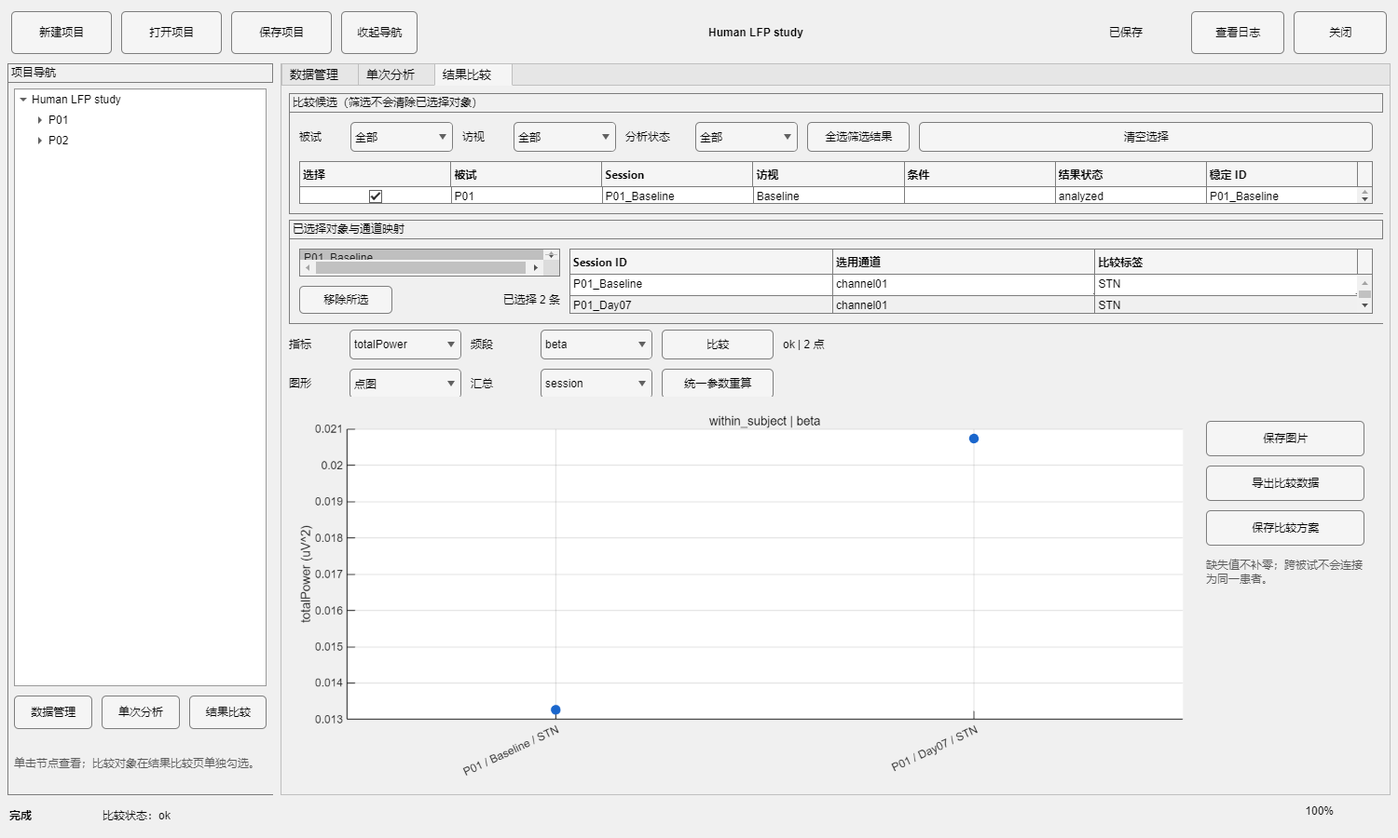
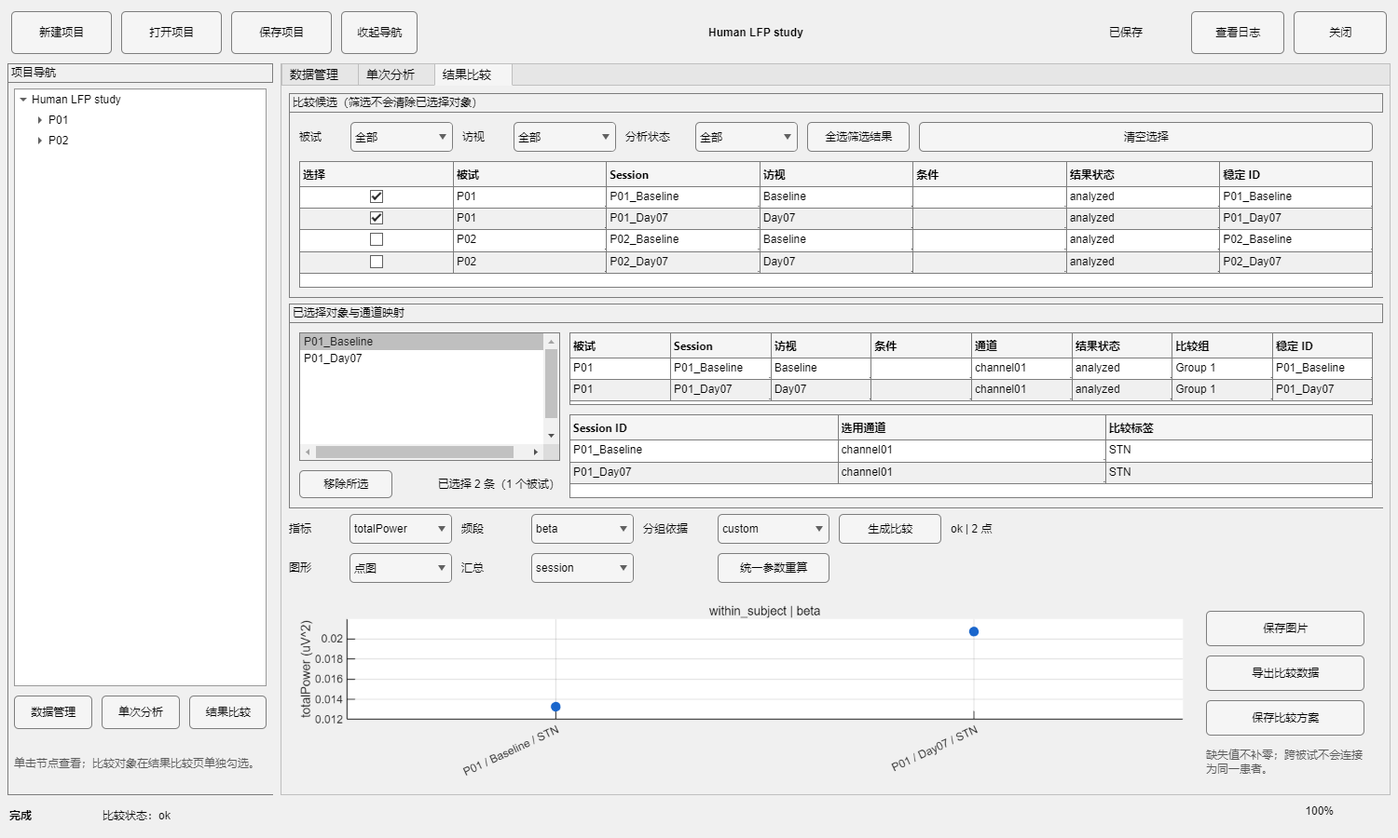
feat: expand project GUI and documentation

diff --git a/src/LfpProjectApp.m b/src/LfpProjectApp.m
@@ -12,6 +12,7 @@ classdef LfpProjectApp < handle
         CurrentData = struct()
         CurrentComparison = struct()
         CompareSelectedSessionIds = strings(0,1)
+        CompareGroupLabels = strings(0,1)
         Controls = struct()
         Dirty = false
         Busy = false
@@ -60,6 +61,13 @@ classdef LfpProjectApp < handle
             if nargin<4, description=""; end
             app.Project=lfp_create_project(string(root),string(name),Description=string(description));
             app.Dirty=false; app.resetSelection(); app.refreshProject(); app.showWorkspace("data");
+            app.setStatus("就绪","项目已创建；下一步请添加被试。",0);
+        end
+
+        function createProjectInParent(app,parent,name,description)
+            if nargin<4, description=""; end
+            project=lfp_create_project_in_parent(string(parent),string(name),Description=string(description));
+            app.Project=project; app.Dirty=false; app.resetSelection(); app.refreshProject(); app.showWorkspace("data");
             app.setStatus("就绪","项目已创建；下一步请添加被试。",0);
         end
 
@@ -185,11 +193,11 @@ classdef LfpProjectApp < handle
             hg=uigridlayout(holder,[1 1]);hg.Padding=[0 0 0 0];
             app.Controls.Welcome=uipanel(hg,'BorderType','none');
             app.Controls.Welcome.Layout.Row=1;app.Controls.Welcome.Layout.Column=1;
-            wg=uigridlayout(app.Controls.Welcome,[5 3]);wg.RowHeight={'1x',60,44,44,'1x'};wg.ColumnWidth={'1x',360,'1x'};
-            t=uilabel(wg,'Text','SceneRay LFP 项目分析','FontSize',24,'FontWeight','bold','HorizontalAlignment','center');t.Layout.Row=2;t.Layout.Column=2;
-            n=uilabel(wg,'Text','从空白项目开始，或继续已有项目。无需预先准备工作区变量。','HorizontalAlignment','center','WordWrap','on');n.Layout.Row=3;n.Layout.Column=2;
-            a=uigridlayout(wg,[1 2]);a.Layout.Row=4;a.Layout.Column=2;a.ColumnWidth={'1x','1x'};
-            uibutton(a,'Text','新建项目','ButtonPushedFcn',@(~,~)app.newProjectDialog());uibutton(a,'Text','打开项目','ButtonPushedFcn',@(~,~)app.openProjectDialog());
+            wg=uigridlayout(app.Controls.Welcome,[5 3]);wg.RowHeight={'1x',120,44,44,'1x'};wg.ColumnWidth={'1x',420,'1x'};
+            logo=uipanel(wg,'Title','LOGO','BorderType','line','ForegroundColor',[.75 .75 .75]);logo.Layout.Row=2;logo.Layout.Column=2;
+            lg=uigridlayout(logo,[1 1]);lg.Padding=[12 12 12 12];uilabel(lg,'Text','SceneRay LFP 项目分析','FontSize',22,'FontWeight','bold','HorizontalAlignment','center','FontColor',[.45 .45 .45]);
+            n=uilabel(wg,'Text','请使用顶部“新建项目”或“打开项目”。启动时不会自动导入数据。','HorizontalAlignment','center','WordWrap','on');n.Layout.Row=3;n.Layout.Column=2;
+            hint=uilabel(wg,'Text','项目将按 Subject → Session → Channel 组织，并保留原始数据。','HorizontalAlignment','center','WordWrap','on','FontColor',[.45 .45 .45]);hint.Layout.Row=4;hint.Layout.Column=2;
             app.Controls.WorkspaceTabs=uitabgroup(hg,'Visible','off','SelectionChangedFcn',@(~,~)app.onWorkspaceTabChanged());
             app.Controls.WorkspaceTabs.Layout.Row=1;app.Controls.WorkspaceTabs.Layout.Column=1;
             app.Controls.DataTab=uitab(app.Controls.WorkspaceTabs,'Title','数据管理');app.Controls.AnalysisTab=uitab(app.Controls.WorkspaceTabs,'Title','单次分析');app.Controls.CompareTab=uitab(app.Controls.WorkspaceTabs,'Title','结果比较');
@@ -244,8 +252,9 @@ classdef LfpProjectApp < handle
             uilabel(p,'Text','NW');app.Controls.PsdNW=uieditfield(p,'numeric','Value',3.5);uilabel(p,'Text','K');app.Controls.PsdK=uieditfield(p,'numeric','Value',6);uilabel(p,'Text','重叠');app.Controls.PsdOverlap=uieditfield(p,'numeric','Value',.5);
             st=uitab(tabs,'Title','specparam');s=uigridlayout(st,[2 8]);s.RowHeight={34,34};s.ColumnWidth={70,80,70,80,70,80,80,90};
             uilabel(s,'Text','模型');app.Controls.SpecMode=uidropdown(s,'Items',{'fixed','knee'},'Value','fixed');uilabel(s,'Text','下限 Hz');app.Controls.SpecLow=uieditfield(s,'numeric','Value',1);uilabel(s,'Text','上限 Hz');app.Controls.SpecHigh=uieditfield(s,'numeric','Value',35);uilabel(s,'Text','最大峰数');app.Controls.SpecPeaks=uieditfield(s,'numeric','Value',6);
-            bt=uitab(tabs,'Title','频带功率');b=uigridlayout(bt,[2 4]);b.RowHeight={34,34};b.ColumnWidth={90,180,90,'1x'};
-            uilabel(b,'Text','显示指标');app.Controls.BandMetric=uidropdown(b,'Items',{'totalPower','relativePower','logTotalPower','aperiodicPower','periodicPower'},'Value','totalPower','ValueChangedFcn',@(~,~)app.refreshAnalysisView());uilabel(b,'Text','频段范围');uilabel(b,'Text','来自项目配置；超出 PSD 范围会标记为不可计算。');
+            bt=uitab(tabs,'Title','频带功率');b=uigridlayout(bt,[2 1]);b.RowHeight={'1x',36};b.Padding=[4 4 4 4];
+            app.Controls.BandTable=uitable(b,'Data',band_table_data(lfpDefaultConfig().bands),'ColumnName',{'启用','频段名称','下限 (Hz)','上限 (Hz)'},'ColumnEditable',[true true true true],'RowName',[],'CellEditCallback',@(~,~)app.markDirty());
+            bb=uigridlayout(b,[1 4]);bb.ColumnWidth={110,130,'1x',220};bb.Padding=[0 0 0 0];app.Controls.ResetBands=uibutton(bb,'Text','恢复默认频段','ButtonPushedFcn',@(~,~)app.resetBandTable());app.Controls.SaveBandTemplate=uibutton(bb,'Text','保存为项目模板','ButtonPushedFcn',@(~,~)app.saveBandTemplate());uilabel(bb,'Text','显示指标');app.Controls.BandMetric=uidropdown(bb,'Items',{'totalPower','relativePower','logTotalPower','aperiodicPower','periodicPower'},'Value','totalPower','ValueChangedFcn',@(~,~)app.refreshAnalysisView());
         end
 
         function buildAnalysisResults(app,parent)
@@ -257,14 +266,14 @@ classdef LfpProjectApp < handle
         end
 
         function buildComparePage(app,parent)
-            g=uigridlayout(parent,[4 1]);app.Controls.CompareGrid=g;g.RowHeight={130,112,72,'1x'};g.Padding=[8 8 8 8];g.RowSpacing=6;
+            g=uigridlayout(parent,[4 1]);app.Controls.CompareGrid=g;g.RowHeight={220,220,78,'1x'};g.Padding=[8 8 8 8];g.RowSpacing=6;
             cp=uipanel(g,'Title','比较候选（筛选不会清除已选择对象）');c=uigridlayout(cp,[2 8]);c.RowHeight={32,'1x'};c.ColumnWidth={45,110,45,110,65,110,110,'1x'};
             uilabel(c,'Text','被试');app.Controls.FilterSubject=uidropdown(c,'Items',{'全部'},'ValueChangedFcn',@(~,~)app.refreshComparisonCandidates());uilabel(c,'Text','访视');app.Controls.FilterVisit=uidropdown(c,'Items',{'全部'},'ValueChangedFcn',@(~,~)app.refreshComparisonCandidates());uilabel(c,'Text','分析状态');app.Controls.FilterStatus=uidropdown(c,'Items',{'全部'},'ValueChangedFcn',@(~,~)app.refreshComparisonCandidates());app.Controls.SelectFiltered=uibutton(c,'Text','全选筛选结果','ButtonPushedFcn',@(~,~)app.selectFiltered());app.Controls.ClearComparison=uibutton(c,'Text','清空选择','ButtonPushedFcn',@(~,~)app.clearComparisonSelection());
             app.Controls.CandidateTable=uitable(c,'Data',cell(0,7),'ColumnName',{'选择','被试','Session','访视','条件','结果状态','稳定 ID'},'ColumnEditable',[true false false false false false false],'RowName',[],'CellEditCallback',@(~,e)app.onCandidateEdited(e));app.Controls.CandidateTable.Layout.Row=2;app.Controls.CandidateTable.Layout.Column=[1 8];
-            sp=uipanel(g,'Title','已选择对象与通道映射');s=uigridlayout(sp,[1 2]);s.ColumnWidth={280,'1x'};left=uigridlayout(s,[2 1]);left.RowHeight={'1x',30};left.Padding=[0 0 0 0];app.Controls.SelectedSessions=uilistbox(left,'Items',{'(未选择)'},'Value',{'(未选择)'},'Multiselect','on');lb=uigridlayout(left,[1 2]);lb.ColumnWidth={100,'1x'};lb.Padding=[0 0 0 0];app.Controls.RemoveSelectedComparison=uibutton(lb,'Text','移除所选','ButtonPushedFcn',@(~,~)app.removeSelectedComparison());app.Controls.SelectedCount=uilabel(lb,'Text','已选择 0 条','HorizontalAlignment','right');app.Controls.MappingTable=uitable(s,'Data',cell(0,3),'ColumnName',{'Session ID','选用通道','比较标签'},'ColumnEditable',[false true true],'RowName',[]);
-            x=uigridlayout(g,[2 6]);x.RowHeight={32,32};x.ColumnWidth={55,120,65,120,120,'1x'};x.Padding=[0 0 0 0];
-            uilabel(x,'Text','指标');app.Controls.CompareMetric=uidropdown(x,'Items',{'totalPower','relativePower','logTotalPower','aperiodicPower','periodicPower'},'Value','totalPower');uilabel(x,'Text','频段');app.Controls.CompareBand=uidropdown(x,'Items',{'delta','theta','alpha','beta','lowGamma','highGamma'},'Value','beta');app.Controls.CompareButton=uibutton(x,'Text','比较','ButtonPushedFcn',@(~,~)app.onCompare(false));app.Controls.CompareStatus=uilabel(x,'Text','未比较');
-            uilabel(x,'Text','图形');app.Controls.ComparePlot=uidropdown(x,'Items',{'点图','柱状图'},'Value','点图','ValueChangedFcn',@(~,~)app.renderComparison());uilabel(x,'Text','汇总');app.Controls.CompareAggregation=uidropdown(x,'Items',{'session'},'Value','session');app.Controls.UnifyCompare=uibutton(x,'Text','统一参数重算','ButtonPushedFcn',@(~,~)app.onCompare(true));
+            sp=uipanel(g,'Title','已选择对象与通道映射');s=uigridlayout(sp,[1 2]);s.ColumnWidth={280,'1x'};left=uigridlayout(s,[2 1]);left.RowHeight={'1x',30};left.Padding=[0 0 0 0];app.Controls.SelectedSessions=uilistbox(left,'Items',{'(未选择)'},'Value',{'(未选择)'},'Multiselect','on');lb=uigridlayout(left,[1 2]);lb.ColumnWidth={100,'1x'};lb.Padding=[0 0 0 0];app.Controls.RemoveSelectedComparison=uibutton(lb,'Text','移除所选','ButtonPushedFcn',@(~,~)app.removeSelectedComparison());app.Controls.SelectedCount=uilabel(lb,'Text','已选择 0 条','HorizontalAlignment','right');right=uigridlayout(s,[2 1]);right.RowHeight={'1x',90};right.Padding=[0 0 0 0];app.Controls.SelectedObjectTable=uitable(right,'Data',cell(0,8),'ColumnName',{'被试','Session','访视','条件','通道','结果状态','比较组','稳定 ID'},'ColumnEditable',[false false false false false false true false],'RowName',[],'CellEditCallback',@(~,e)app.onSelectedObjectEdited(e));app.Controls.MappingTable=uitable(right,'Data',cell(0,3),'ColumnName',{'Session ID','选用通道','比较标签'},'ColumnEditable',[false true true],'RowName',[]);
+            x=uigridlayout(g,[2 8]);x.RowHeight={32,32};x.ColumnWidth={55,110,65,110,70,120,110,'1x'};x.Padding=[0 0 0 0];
+            uilabel(x,'Text','指标');app.Controls.CompareMetric=uidropdown(x,'Items',{'totalPower','relativePower','logTotalPower','aperiodicPower','periodicPower'},'Value','totalPower');uilabel(x,'Text','频段');app.Controls.CompareBand=uidropdown(x,'Items',{'delta','theta','alpha','beta','lowGamma','highGamma'},'Value','beta');uilabel(x,'Text','分组依据');app.Controls.CompareGroupingBasis=uidropdown(x,'Items',{'custom','subject_group','visit'},'Value','custom');app.Controls.CompareButton=uibutton(x,'Text','生成比较','ButtonPushedFcn',@(~,~)app.onCompare(false));app.Controls.CompareStatus=uilabel(x,'Text','未比较');
+            uilabel(x,'Text','图形');app.Controls.ComparePlot=uidropdown(x,'Items',{'点图','柱状图','分组 PSD','分组频带柱图'},'Value','点图','ValueChangedFcn',@(~,~)app.renderComparison());uilabel(x,'Text','汇总');app.Controls.CompareAggregation=uidropdown(x,'Items',{'session','subject'},'Value','session');uilabel(x,'Text','');app.Controls.UnifyCompare=uibutton(x,'Text','统一参数重算','ButtonPushedFcn',@(~,~)app.onCompare(true));
             res=uigridlayout(g,[1 2]);res.ColumnWidth={'1x',190};app.Controls.CompareAxes=uiaxes(res);tools=uigridlayout(res,[6 1]);tools.RowHeight={38,38,38,38,'1x',60};app.Controls.CompareSaveImage=uibutton(tools,'Text','保存图片','ButtonPushedFcn',@(~,~)app.saveComparisonImage());app.Controls.CompareExportData=uibutton(tools,'Text','导出比较数据','ButtonPushedFcn',@(~,~)app.exportComparisonData());app.Controls.CompareSavePlan=uibutton(tools,'Text','保存比较方案','ButtonPushedFcn',@(~,~)app.saveComparisonPlan());app.Controls.CompareDetails=uilabel(tools,'Text','缺失值不补零；跨被试不会连接为同一患者。','WordWrap','on','FontColor',[.35 .35 .35]);
         end
 
@@ -273,9 +282,33 @@ classdef LfpProjectApp < handle
         end
 
         function newProjectDialog(app)
-            a=inputdlg({'项目名称','可选描述'},'新建项目',[1 45;3 45],{'Human LFP project',''});if isempty(a),return;end
-            root=uigetdir('','选择项目保存位置');if isequal(root,0),return;end
-            try,app.createProjectAt(root,string(a{1}),string(a{2}));catch e,app.showError(e,'新建项目失败');end
+            dg=uifigure('Name','新建项目','WindowStyle','modal','Position',[360 300 620 300]);
+            g=uigridlayout(dg,[5 3]);g.RowHeight={34,34,34,70,42};g.ColumnWidth={100,'1x',100};g.Padding=[16 16 16 16];
+            uilabel(g,'Text','项目名称');name=uieditfield(g,'text','Value','Human LFP project');
+            uilabel(g,'Text','父目录');parent=uieditfield(g,'text','Value',char(pwd));browse=uibutton(g,'Text','浏览…','ButtonPushedFcn',@browseParent);
+            uilabel(g,'Text','保存路径预览');preview=uilabel(g,'Text','','Interpreter','none','WordWrap','on');preview.Layout.Column=[2 3];
+            uilabel(g,'Text','说明');description=uieditfield(g,'text','Value','');description.Layout.Column=[2 3];
+            buttons=uigridlayout(g,[1 2]);buttons.Layout.Row=5;buttons.Layout.Column=[2 3];buttons.ColumnWidth={'1x','1x'};uibutton(buttons,'Text','取消','ButtonPushedFcn',@cancel);uibutton(buttons,'Text','创建','ButtonPushedFcn',@accept);
+            name.ValueChangedFcn=@updatePreview;parent.ValueChangedFcn=@updatePreview;dg.CloseRequestFcn=@cancel;updatePreview();uiwait(dg);
+            if isgraphics(dg),result=dg.UserData;delete(dg);else,result=[];end
+            if ~isempty(result)
+                try,app.createProjectInParent(result.parent,result.name,result.description);catch e,app.showError(e,'新建项目失败');end
+            end
+            function updatePreview(~,~)
+                if strlength(strtrim(string(parent.Value)))==0||strlength(strtrim(string(name.Value)))==0,preview.Text='请输入父目录和项目名称';else,preview.Text=char(fullfile(string(parent.Value),string(name.Value)));end
+            end
+            function browseParent(~,~)
+                selected=uigetdir(char(parent.Value),'选择项目父目录');if ~isequal(selected,0),parent.Value=char(selected);updatePreview();end
+            end
+            function cancel(~,~),if isgraphics(dg),dg.UserData=[];uiresume(dg);end,end
+            function accept(~,~)
+                try
+                    parentRoot=string(parent.Value);projectName=string(name.Value);lfp_validate_folder_name(projectName,"项目名称");
+                    if ~isfolder(parentRoot),error('LFP:InvalidProjectParent','项目父目录不存在。');end
+                    dg.UserData=struct('parent',parentRoot,'name',projectName,'description',string(description.Value));uiresume(dg);
+                catch e,uialert(dg,string(e.message),'项目设置');
+                end
+            end
         end
 
         function openProjectDialog(app)
@@ -391,7 +424,7 @@ classdef LfpProjectApp < handle
                 subject=app.Project.subjects(i);sn=uitreenode(root,'Text',char(subject.display_name),'NodeData',struct('kind','subject','id',subject.subject_id));
                 for j=1:numel(subject.sessions),session=subject.sessions(j);label=session.visit_label;if strlength(label)==0,label=session.session_id;end;uitreenode(sn,'Text',char(label+"  ["+session.status+"]"),'NodeData',struct('kind','session','id',session.session_id));end
             end
-            expand(root);app.updateProjectHeader();app.refreshComparisonFilters();app.refreshComparisonCandidates();
+            expand(root);app.updateProjectHeader();app.refreshComparisonFilters();app.refreshComparisonBands();app.refreshComparisonCandidates();
         end
 
         function showProjectDetails(app)
@@ -446,13 +479,41 @@ classdef LfpProjectApp < handle
             cfg=app.Project.defaultConfig;cfg.artifact.amplitudeZ=app.Controls.ArtifactZ.Value;cfg.artifact.derivativeZ=app.Controls.JumpZ.Value;cfg.artifact.paddingSeconds=app.Controls.Padding.Value;
             cfg.psd.method=string(app.Controls.PsdMethod.Value);cfg.psd.windowLengthSec=app.Controls.PsdWindow.Value;cfg.psd.frequencyRange=[app.Controls.PsdLow.Value app.Controls.PsdHigh.Value];cfg.psd.overlapFraction=app.Controls.PsdOverlap.Value;cfg.psd.multitaper.timeBandwidthProduct=app.Controls.PsdNW.Value;
             cfg.psd.multitaper.taperCount=round(app.Controls.PsdK.Value);cfg.fooof.aperiodicMode=string(app.Controls.SpecMode.Value);cfg.fooof.frequencyRange=[app.Controls.SpecLow.Value app.Controls.SpecHigh.Value];cfg.fooof.maxNumberPeaks=round(app.Controls.SpecPeaks.Value);
+            cfg.bands=app.readBandsFromTable();
             if ~isempty(fieldnames(app.CurrentData))&&cfg.psd.frequencyRange(2)>app.CurrentData.fs/2,error('LFP:FrequencyAboveNyquist','PSD 上限 %.3g Hz 超过 Nyquist %.3g Hz。',cfg.psd.frequencyRange(2),app.CurrentData.fs/2);end
+        end
+
+        function bands=readBandsFromTable(app)
+            raw=app.Controls.BandTable.Data;if isempty(raw),error('LFP:InvalidBands','至少保留一个频段。');end
+            bands=struct('name',{},'rangeHz',{});names=strings(0,1);
+            for i=1:size(raw,1)
+                enabled=logical(raw{i,1});name=strtrim(string(raw{i,2}));low=double(raw{i,3});high=double(raw{i,4});
+                if ~enabled,continue;end
+                if strlength(name)==0||any(names==name),error('LFP:InvalidBands','频段名称不能为空且不能重复。');end
+                if ~isfinite(low)||~isfinite(high)||low<0||high<=low,error('LFP:InvalidBands','频段 %s 的边界必须满足 0≤下限<上限。',name);end
+                if ~isempty(fieldnames(app.CurrentData))&&high>double(app.CurrentData.fs)/2,error('LFP:FrequencyAboveNyquist','频段 %s 上限 %.3g Hz 超过 Nyquist。',name,high);end
+                names(end+1,1)=name;bands(end+1)=struct('name',name,'rangeHz',[low high]); %#ok<AGROW>
+            end
+            if isempty(bands),error('LFP:InvalidBands','至少启用一个频段。');end
         end
 
         function applyConfigToControls(app)
             if app.noProject(),return;end;c=app.Project.defaultConfig;app.Controls.ArtifactZ.Value=c.artifact.amplitudeZ;app.Controls.JumpZ.Value=c.artifact.derivativeZ;app.Controls.Padding.Value=c.artifact.paddingSeconds;
             app.Controls.PsdMethod.Value=char(c.psd.method);app.Controls.PsdWindow.Value=c.psd.windowLengthSec;app.Controls.PsdLow.Value=c.psd.frequencyRange(1);app.Controls.PsdHigh.Value=c.psd.frequencyRange(2);app.Controls.PsdOverlap.Value=c.psd.overlapFraction;app.Controls.PsdNW.Value=c.psd.multitaper.timeBandwidthProduct;app.Controls.PsdK.Value=c.psd.multitaper.taperCount;
             app.Controls.SpecMode.Value=char(c.fooof.aperiodicMode);app.Controls.SpecLow.Value=c.fooof.frequencyRange(1);app.Controls.SpecHigh.Value=c.fooof.frequencyRange(2);app.Controls.SpecPeaks.Value=c.fooof.maxNumberPeaks;
+            if isfield(c,'bands'),app.Controls.BandTable.Data=band_table_data(c.bands);end
+        end
+
+        function resetBandTable(app)
+            d=lfpDefaultConfig();app.Controls.BandTable.Data=band_table_data(d.bands);if ~app.noProject(),app.refreshComparisonBands();app.markDirty();end
+        end
+
+        function saveBandTemplate(app)
+            if app.noProject(),app.warn('请先创建或打开项目。');return;end
+            try
+                c=app.Project.defaultConfig;c.bands=app.readBandsFromTable();app.Project.defaultConfig=c;app.refreshComparisonBands();app.markDirty();app.saveProject();
+            catch e,app.showError(e,'保存频段模板失败');
+            end
         end
 
         function onRun(app),try,app.runSelectedAnalysis();catch e,app.showError(e,'分析失败');end,end
@@ -468,6 +529,13 @@ classdef LfpProjectApp < handle
             if app.noProject(),return;end
             subjects=string({app.Project.subjects.subject_id});visits=strings(0,1);statuses=strings(0,1);for i=1:numel(app.Project.subjects),visits=[visits;string({app.Project.subjects(i).sessions.visit_label})'];statuses=[statuses;string({app.Project.subjects(i).sessions.status})'];end %#ok<LFPS>
             app.setDropdownItems(app.Controls.FilterSubject,["全部";unique(subjects(:),'stable')]);app.setDropdownItems(app.Controls.FilterVisit,["全部";unique(visits(strlength(visits)>0),'stable')]);app.setDropdownItems(app.Controls.FilterStatus,["全部";unique(statuses(strlength(statuses)>0),'stable')]);
+        end
+
+        function refreshComparisonBands(app)
+            if ~isfield(app.Controls,'CompareBand'),return;end
+            names=project_band_names(app.Project);
+            if isempty(names),names="beta";end
+            app.setDropdownItems(app.Controls.CompareBand,names);
         end
 
         function refreshComparisonCandidates(app)
@@ -486,30 +554,66 @@ classdef LfpProjectApp < handle
             row=event.Indices(1);data=app.Controls.CandidateTable.Data;id=string(data{row,7});if logical(data{row,1}),app.CompareSelectedSessionIds=unique([app.CompareSelectedSessionIds;id],'stable');else,app.CompareSelectedSessionIds(app.CompareSelectedSessionIds==id)=[];end;app.refreshSelectedSessions();
         end
         function selectFiltered(app),data=app.Controls.CandidateTable.Data;if isempty(data),return;end;app.CompareSelectedSessionIds=unique([app.CompareSelectedSessionIds;string(data(:,7))],'stable');app.refreshComparisonCandidates();end
-        function clearComparisonSelection(app),app.CompareSelectedSessionIds=strings(0,1);app.refreshComparisonCandidates();end
-        function removeSelectedComparison(app),selected=string(app.Controls.SelectedSessions.Value);selected=selected(selected~="(未选择)");app.CompareSelectedSessionIds(ismember(app.CompareSelectedSessionIds,selected))=[];app.refreshComparisonCandidates();end
+        function clearComparisonSelection(app),app.CompareSelectedSessionIds=strings(0,1);app.CompareGroupLabels=strings(0,1);app.refreshComparisonCandidates();end
+        function removeSelectedComparison(app),selected=string(app.Controls.SelectedSessions.Value);selected=selected(selected~="(未选择)");keep=~ismember(app.CompareSelectedSessionIds,selected);app.CompareSelectedSessionIds=app.CompareSelectedSessionIds(keep);app.CompareGroupLabels=app.CompareGroupLabels(keep);app.refreshComparisonCandidates();end
 
         function refreshSelectedSessions(app)
-            app.Controls.SelectedCount.Text=char("已选择 "+string(numel(app.CompareSelectedSessionIds))+" 条");if isempty(app.CompareSelectedSessionIds),app.Controls.SelectedSessions.Items={'(未选择)'};app.Controls.SelectedSessions.Value={'(未选择)'};app.Controls.MappingTable.Data=cell(0,3);return;end
-            app.Controls.SelectedSessions.Items=cellstr(app.CompareSelectedSessionIds);app.Controls.SelectedSessions.Value=char(app.CompareSelectedSessionIds(1));old=app.Controls.MappingTable.Data;rows=cell(numel(app.CompareSelectedSessionIds),3);
-            for i=1:numel(app.CompareSelectedSessionIds),id=app.CompareSelectedSessionIds(i);[session,~]=lfp_project_find_session(app.Project,id);channel="";if ~isempty(session)&&~isempty(session.channels),channel=string(session.channels(1).original_label);end
-                if ~isempty(old),match=find(string(old(:,1))==id,1);if ~isempty(match),channel=string(old{match,2});target=string(old{match,3});else,target=channel;end;else,target=channel;end;rows(i,:)={char(id),char(channel),char(target)};
+            ids=app.CompareSelectedSessionIds(:);app.Controls.SelectedCount.Text=char("已选择 "+string(numel(ids))+" 条（"+string(numel(unique(app.subject_ids_for_sessions(ids))))+" 个被试）");
+            if isempty(ids)
+                app.Controls.SelectedSessions.Items={'(未选择)'};app.Controls.SelectedSessions.Value={'(未选择)'};app.Controls.MappingTable.Data=cell(0,3);app.Controls.SelectedObjectTable.Data=cell(0,8);app.CompareGroupLabels=strings(0,1);return;
             end
-            app.Controls.MappingTable.Data=rows;
+            app.Controls.SelectedSessions.Items=cellstr(ids);app.Controls.SelectedSessions.Value=char(ids(1));old=app.Controls.MappingTable.Data;oldObjects=app.Controls.SelectedObjectTable.Data;mappingRows=cell(numel(ids),3);objectRows=cell(numel(ids),8);groups=strings(numel(ids),1);
+            for i=1:numel(ids)
+                id=ids(i);[session,subject]=lfp_project_find_session(app.Project,id);channel="";visit="";condition="";status="";subjectId="";group="Group 1";
+                if ~isempty(session)
+                    subjectId=string(subject.subject_id);visit=string(session.visit_label);condition=strtrim(string(session.medication_state)+" "+string(session.stimulation_state));status=string(session.status);
+                    if ~isempty(session.channels),channel=string(session.channels(1).original_label);end
+                    group=default_compare_group(app,session,subject);
+                end
+                if ~isempty(old),match=find(string(old(:,1))==id,1);if ~isempty(match),channel=string(old{match,2});target=string(old{match,3});else,target=channel;end;else,target=channel;end
+                if ~isempty(oldObjects),match=find(string(oldObjects(:,8))==id,1);if ~isempty(match)&&size(oldObjects,2)>=7,group=string(oldObjects{match,7});end;end
+                if strlength(group)==0,group="Group 1";end;groups(i)=group;mappingRows(i,:)={char(id),char(channel),char(target)};objectRows(i,:)={char(subjectId),char(id),char(visit),char(condition),char(channel),char(status),char(group),char(id)};
+            end
+            app.CompareGroupLabels=groups;app.Controls.MappingTable.Data=mappingRows;app.Controls.SelectedObjectTable.Data=objectRows;
+        end
+
+        function onSelectedObjectEdited(app,event)
+            if isempty(event.Indices),return;end;row=event.Indices(1);if size(app.Controls.SelectedObjectTable.Data,2)<8,return;end
+            id=string(app.Controls.SelectedObjectTable.Data{row,8});group=string(app.Controls.SelectedObjectTable.Data{row,7});idx=find(app.CompareSelectedSessionIds==id,1);if ~isempty(idx),app.CompareGroupLabels(idx)=group;end
+        end
+
+        function ids=subject_ids_for_sessions(app,ids)
+            ids=string(ids(:));out=strings(0,1);for k=1:numel(ids),[~,subject]=lfp_project_find_session(app.Project,ids(k));if ~isempty(subject),out(end+1,1)=string(subject.subject_id);end,end;ids=out;
+        end
+
+        function group=default_compare_group(app,session,subject)
+            basis="custom";if isfield(app.Controls,'CompareGroupingBasis'),basis=string(app.Controls.CompareGroupingBasis.Value);end
+            switch lower(basis),case "subject_group",group=string(subject.group);case "visit",group=string(session.visit_label);otherwise,group="Group 1";end
+            if strlength(group)==0,group="未分组";end
         end
 
         function spec=readComparisonSpec(app)
-            ids=app.CompareSelectedSessionIds(:);subjects=strings(numel(ids),1);mapping=repmat(struct('session_id',"",'channel_id',"",'channel_label',"",'target_label',""),numel(ids),1);rows=app.Controls.MappingTable.Data;
+            ids=app.CompareSelectedSessionIds(:);subjects=strings(numel(ids),1);mapping=repmat(struct('session_id',"",'channel_id',"",'channel_label',"",'target_label',"",'group_label',""),numel(ids),1);rows=app.Controls.MappingTable.Data;
             for i=1:numel(ids),[session,subject]=lfp_project_find_session(app.Project,ids(i));subjects(i)=subject.subject_id;chosen=string(rows{i,2});target=string(rows{i,3});labels=string({session.channels.original_label});display=string({session.channels.display_label});idx=find(labels==chosen|display==chosen,1);if isempty(idx),error('LFP:ChannelMappingMissing','Session %s 中不存在通道 %s。',ids(i),chosen);end
-                mapping(i)=struct('session_id',ids(i),'channel_id',string(session.channels(idx).channel_id),'channel_label',string(session.channels(idx).original_label),'target_label',target);
+                group="Group 1";if numel(app.CompareGroupLabels)>=i,group=string(app.CompareGroupLabels(i));end
+                mapping(i)=struct('session_id',ids(i),'channel_id',string(session.channels(idx).channel_id),'channel_label',string(session.channels(idx).original_label),'target_label',target,'group_label',group);
             end
             type="between_subjects";if numel(unique(subjects))==1,type="within_subject";end
-            spec=struct('type',type,'session_ids',ids,'subject_ids',unique(subjects),'bands',string(app.Controls.CompareBand.Value),'metric',string(app.Controls.CompareMetric.Value),'aggregation',string(app.Controls.CompareAggregation.Value),'channel_mapping',mapping,'plot_settings',struct('type',string(app.Controls.ComparePlot.Value)));
+            basis=string(app.Controls.CompareGroupingBasis.Value);groups=unique(string({mapping.group_label})','stable');defs=repmat(struct('group_label',"",'basis',basis,'session_ids',strings(0,1),'subject_ids',strings(0,1)),numel(groups),1);for k=1:numel(groups),defs(k).group_label=groups(k);defs(k).session_ids=ids(string({mapping.group_label})'==groups(k));defs(k).subject_ids=unique(subjects(string({mapping.group_label})'==groups(k)),'stable');end
+            spec=struct('type',type,'session_ids',ids,'subject_ids',unique(subjects),'bands',string(app.Controls.CompareBand.Value),'metric',string(app.Controls.CompareMetric.Value),'aggregation',string(app.Controls.CompareAggregation.Value),'channel_mapping',mapping,'grouping_basis',basis,'group_defs',defs,'plot_settings',struct('type',string(app.Controls.ComparePlot.Value)));
         end
 
         function onCompare(app,unify),try,app.compareSelected(unify);catch e,app.showError(e,'比较失败');end,end
         function renderComparison(app)
             ax=app.Controls.CompareAxes;cla(ax,'reset');if isempty(fieldnames(app.CurrentComparison)),text(ax,.5,.5,'请选择比较对象并运行比较','Units','normalized','HorizontalAlignment','center');axis(ax,'off');return;end
+            mode=string(app.Controls.ComparePlot.Value);
+            if mode=="分组 PSD"
+                if ~isfield(app.CurrentComparison,'psd_summary')||~isstruct(app.CurrentComparison.psd_summary)||isempty(app.CurrentComparison.psd_summary.psd),text(ax,.5,.5,'没有可用 PSD 比较结果','Units','normalized','HorizontalAlignment','center');axis(ax,'off');return;end
+                plotGroupedPsdComparison(app.CurrentComparison.psd_summary,Parent=ax,Visible="off");app.Controls.CompareStatus.Text=char(string(app.CurrentComparison.status)+" | 分组 PSD");return;
+            elseif mode=="分组频带柱图"
+                if ~isfield(app.CurrentComparison,'result_table')||isempty(app.CurrentComparison.result_table),text(ax,.5,.5,'没有可比较的频带结果','Units','normalized','HorizontalAlignment','center');axis(ax,'off');return;end
+                plotGroupedBandPower(app.CurrentComparison,Parent=ax,Metric=string(app.Controls.CompareMetric.Value),Visible="off");app.Controls.CompareStatus.Text=char(string(app.CurrentComparison.status)+" | 分组频带");return;
+            end
             tbl=app.CurrentComparison.result_table;if isempty(tbl),text(ax,.5,.5,'没有可比较的有效结果','Units','normalized','HorizontalAlignment','center');axis(ax,'off');return;end
             labels=string(tbl.subject_id)+" / "+string(tbl.visit_label)+" / "+string(tbl.channel_label);values=double(tbl.value(:));x=(1:numel(values))';if string(app.Controls.ComparePlot.Value)=="柱状图",bar(ax,x,values,'FaceColor',[.15 .45 .75]);else,scatter(ax,x,values,60,[.1 .4 .8],'filled');end
             xticks(ax,x);xlim(ax,[.5 numel(values)+.5]);xticklabels(ax,cellstr(labels));xtickangle(ax,25);grid(ax,'on');ylabel(ax,string(tbl.metric(1))+" ("+string(tbl.unit(1))+")",'Interpreter','none');title(ax,string(app.CurrentComparison.type)+" | "+string(tbl.band(1)),'Interpreter','none');app.Controls.CompareStatus.Text=char(string(app.CurrentComparison.status)+" | "+string(height(tbl))+" 点");
@@ -520,10 +624,12 @@ classdef LfpProjectApp < handle
             saved=app.Project.comparisons(end);app.CompareSelectedSessionIds=string(saved.session_ids(:));
             if isfield(saved,'metric')&&any(string(app.Controls.CompareMetric.Items)==string(saved.metric)),app.Controls.CompareMetric.Value=char(saved.metric);end
             if isfield(saved,'bands')&&~isempty(saved.bands)&&any(string(app.Controls.CompareBand.Items)==string(saved.bands(1))),app.Controls.CompareBand.Value=char(saved.bands(1));end
+            if isfield(saved,'grouping_basis')&&any(string(app.Controls.CompareGroupingBasis.Items)==string(saved.grouping_basis)),app.Controls.CompareGroupingBasis.Value=char(saved.grouping_basis);end
             app.refreshComparisonCandidates();
             if isfield(saved,'channel_mapping')&&~isempty(saved.channel_mapping)
                 rows=cell(numel(saved.channel_mapping),3);
-                for i=1:numel(saved.channel_mapping),m=saved.channel_mapping(i);label="";if isfield(m,'channel_label'),label=string(m.channel_label);end;target=label;if isfield(m,'target_label')&&strlength(string(m.target_label))>0,target=string(m.target_label);end;rows(i,:)={char(string(m.session_id)),char(label),char(target)};end
+                for i=1:numel(saved.channel_mapping),m=saved.channel_mapping(i);label="";if isfield(m,'channel_label'),label=string(m.channel_label);end;target=label;if isfield(m,'target_label')&&strlength(string(m.target_label))>0,target=string(m.target_label);end;rows(i,:)={char(string(m.session_id)),char(label),char(target)};if isfield(m,'group_label')&&i<=numel(app.CompareGroupLabels),app.CompareGroupLabels(i)=string(m.group_label);end;end
+                app.refreshSelectedSessions();
                 app.Controls.MappingTable.Data=rows;
             end
             if isfield(saved,'result_table')&&istable(saved.result_table)&&~isempty(saved.result_table),app.CurrentComparison=saved;app.renderComparison();end
@@ -556,14 +662,14 @@ classdef LfpProjectApp < handle
             end
             app.CompactMode=app.Figure.Position(3)<1300;
             if app.CompactMode
-                if isfield(app.Controls,'CompareGrid'),app.Controls.CompareGrid.RowHeight={130,112,68,'1x'};end
+                if isfield(app.Controls,'CompareGrid'),app.Controls.CompareGrid.RowHeight={190,190,78,'1x'};end
                 if app.NavigationOnly
                     app.Controls.BodyGrid.ColumnWidth={'1x',0};app.Controls.NavigationPanel.Visible='on';app.Controls.WorkspacePanel.Visible='off';app.Controls.ToggleNavigation.Text='返回工作区';
                 else
                     app.Controls.BodyGrid.ColumnWidth={0,'1x'};app.Controls.NavigationPanel.Visible='off';app.Controls.WorkspacePanel.Visible='on';app.Controls.ToggleNavigation.Text='打开导航';
                 end
             else
-                if isfield(app.Controls,'CompareGrid'),app.Controls.CompareGrid.RowHeight={130,112,72,'1x'};end
+                if isfield(app.Controls,'CompareGrid'),app.Controls.CompareGrid.RowHeight={220,220,78,'1x'};end
                 app.NavigationOnly=false;app.Controls.WorkspacePanel.Visible='on';
                 if app.NavigationCollapsed
                     app.Controls.BodyGrid.ColumnWidth={0,'1x'};app.Controls.NavigationPanel.Visible='off';app.Controls.ToggleNavigation.Text='打开导航';
@@ -594,4 +700,27 @@ end
 
 function value=clean_text(value)
 value=string(value);value=value(~ismissing(value));if isempty(value),value="";else,value=join(value,"；");end
+end
+
+function rows = band_table_data(bands)
+if isstruct(bands) && numel(bands)>0 && isfield(bands,'name') && isfield(bands,'rangeHz')
+    names=string({bands.name})';ranges={bands.rangeHz};
+else
+    names=string(fieldnames(bands));ranges=cell(numel(names),1);
+    for i=1:numel(names),ranges{i}=bands.(char(names(i)));end
+end
+rows=cell(numel(names),4);
+for i=1:numel(names),range=double(ranges{i});rows(i,:)={true,char(names(i)),double(range(1)),double(range(2))};end
+end
+
+function names = project_band_names(project)
+names=strings(0,1);
+if ~isstruct(project)||~isfield(project,'defaultConfig')||~isstruct(project.defaultConfig)||~isfield(project.defaultConfig,'bands'),return;end
+bands=project.defaultConfig.bands;
+if isstruct(bands)&&numel(bands)>0&&isfield(bands,'name')
+    names=string({bands.name})';
+elseif isstruct(bands)
+    names=string(fieldnames(bands));
+end
+names=unique(names(strlength(names)>0),'stable');
 end

diff --git a/tests/generate_gui_snapshots.m b/tests/generate_gui_snapshots.m
@@ -8,10 +8,11 @@ else
     root=fileparts(fileparts(mfilename('fullpath')));
 end
 addpath(fullfile(root,'src'));if ~isfolder(outputFolder),mkdir(outputFolder);end
-projectRoot=string(tempname);mkdir(projectRoot);cleanup=onCleanup(@()cleanup_all(projectRoot)); %#ok<NASGU>
+projectParent=string(tempname);mkdir(projectParent);cleanup=onCleanup(@()cleanup_all(projectParent)); %#ok<NASGU>
+projectRoot=fullfile(projectParent,"Human LFP study");
 files=strings(7,1);app=launchLfpProjectApp(Visible="off");appCleanup=onCleanup(@()app.close(true)); %#ok<NASGU>
 files(1)=fullfile(outputFolder,'01-welcome.png');app.exportSnapshot(files(1));
-app.createProjectAt(projectRoot,"Human LFP study","GUI acceptance project");app.Project.defaultConfig.artifact.strictMode=false;
+app.createProjectInParent(projectParent,"Human LFP study","GUI acceptance project");app.Project.defaultConfig.artifact.strictMode=false;
 app.Project.defaultConfig.psd.maxArtifactFraction=1;
 for subject=["P01" "P02"]
     app.addSubjectRecord(struct('subject_id',subject,'display_name',subject));

diff --git a/tests/test_lfp_project_platform.m b/tests/test_lfp_project_platform.m
@@ -148,6 +148,8 @@ spec = struct('type', "between_subjects", 'session_ids', [s1.session_id s2.sessi
 verifyEqual(testCase, string(comparison.psd_summary.status), "ok");
 verifyEqual(testCase, numel(comparison.psd_summary.group_labels_unique), 2);
 verifyEqual(testCase, string(comparison.result_table.group_label), ["Control"; "Treatment"]);
+[project, plan] = lfp_save_comparison_plan(project, spec);
+verifyTrue(testCase, isfile(fullfile(root, "comparisons", plan.comparison_id + ".mat")));
 h1 = plotGroupedPsdComparison(comparison.psd_summary, Visible="off"); testCase.addTeardown(@() close_if_valid(h1.figure));
 h2 = plotGroupedBandPower(comparison, Visible="off"); testCase.addTeardown(@() close_if_valid(h2.figure));
 verifyTrue(testCase, isgraphics(h1.axes)); verifyTrue(testCase, isgraphics(h2.axes));

diff --git a/docs/architecture.md b/docs/architecture.md
@@ -13,9 +13,9 @@
 9. **GUI** — `launch_gui` creates one `LfpProjectApp` controller with an empty welcome state, a stable-ID navigation tree and three task-specific pages. It calls public import/project/analysis/comparison functions; rendering reads cached results and never launches hidden analysis. `launchLfpApp` remains a legacy single-file compatibility entry.
 10. **Legacy dataset manager** — `launchLfpApp` retains the previous independent `Datasets(k)` workflow for compatibility. It is not the primary project GUI and never shares live state with `LfpProjectApp`.
 11. **Legacy task manager** — `LfpAnalysisTaskManager` remains available to the compatibility GUI. The project GUI calls the project analysis dispatcher and exposes cooperative cancellation at its progress checkpoints.
-12. **Project platform** — `lfp_create_project`, `lfp_project_add_subject` and `lfp_project_add_session` implement the stable `Project -> Subject -> Session -> Channel` index. Raw records are stored as one file per Session under `data/`; the index remains lightweight.
+12. **Project platform** — `lfp_create_project_in_parent` creates a self-contained project folder after validating the parent and name. New GUI-created projects use `storage_mode="subject_session"`: `subjects/<display-name>__<stable-id>/<visit>__<stable-id>/` contains `subject.mat`, `session.mat`, `data/`, `configs/`, `results/` and `exports/`; project-wide `comparisons/`, `exports/` and `logs/` remain at the project root. Direct callers of `lfp_create_project` retain the legacy root-level `data/` and `results/` layout, so old projects remain readable.
 13. **AnalysisRun/cache** — `lfp_analyze_project` runs Sessions independently, creates versioned run metadata and derived result files under `results/`, and reuses a run only when both the content-sensitive data version and computation-only configuration fingerprint match.
-14. **Comparison/query** — `lfp_compare_project` reads saved band-power results into an explicit long table and records comparison type, Session IDs, visit labels, run IDs and configuration compatibility. It never concatenates raw signals or treats epochs/channels as independent subjects. `plotProjectComparison` renders the table as Session-level points without inferential statistics.
+14. **Comparison/query** — `lfp_compare_project` reads saved band-power results into an explicit long table and records comparison type, Session IDs, visit labels, run IDs and configuration compatibility. It never concatenates raw signals or treats epochs/channels as independent subjects. `plotProjectComparison` renders the table as Session-level points without inferential statistics. `lfp_build_psd_comparison` and `plotGroupedPsdComparison` add subject-weighted group curves (Sessions are averaged within Subject first); `plotGroupedBandPower` uses the same subject-level weighting for bars, points and SD. Group labels belong to the comparison mapping and do not modify Subject metadata.
 15. **Batch/migration** — `lfp_run_batch` provides a GUI-free task entry point with a project lock; `lfp_preview_legacy_dataset` and `lfp_migrate_legacy_dataset` require explicit Subject/Session identity and preserve the source file.
 
 ## Dependency policy
@@ -37,7 +37,7 @@ The GUI takes a run snapshot containing the selected channels, analysis range, m
 
 The raw signal remains in the data model and is never overwritten by a derived signal.
 
-Project persistence is intentionally separate from transient GUI handles. `project.mat` contains metadata, stable IDs, configuration, saved comparison plans and result references; `data/<session_id>.mat` contains the canonical raw arrays; `results/<run_id>.mat` contains derived analysis outputs; and `comparisons/<comparison_id>.mat` contains reproducible comparison tables. A project can therefore be reopened without importing or recomputing successful runs.
+Project persistence is intentionally separate from transient GUI handles. `project.mat` contains metadata, stable IDs, configuration, saved comparison plans and result references. In nested projects, each Session stores canonical raw arrays in its own `data/session_data.mat` and derived results in its own `results/<run_id>.mat`; legacy projects keep `data/<session_id>.mat` and root `results/<run_id>.mat`. `comparisons/<comparison_id>.mat` contains reproducible comparison tables and group definitions. Relative references allow the complete project folder to be moved and reopened without importing or recomputing successful runs; source CSVs are copied into Session/data with a collision-safe name while the original source path is retained as provenance.
 
 `LfpProjectApp` keeps the current project, subject ID, Session ID, channel index, comparison selection, cached run and dirty/busy state in one controller. Tree and table rows carry stable IDs, so filtering and ordering do not change object identity. Result tabs consume the currently loaded Session run; switching to a Session without results clears the previous plots.
 

diff --git a/docs/data-format.md b/docs/data-format.md
@@ -66,6 +66,17 @@ original CSV or the project's stored data/result files. Editable display labels,
 side, region, contacts and reference can be edited without changing
 `channel_id` or `original_label`.
 
+GUI-created projects use a nested, relocatable layout. `project.mat` stores
+`storage_mode="subject_session"`; each Subject has a stable-ID folder recorded
+in `folder_relative_path`, and each Session has its own stable-ID folder with
+`data/`, `configs/`, `results/` and `exports/`. `data_refs.relative_path` and
+`data_refs.project_copy_relative_path` are relative to the project root. The
+imported source CSV is copied into the Session `data/` directory without
+altering the source file; identical source names receive a suffix. Renaming a
+Subject or Session changes only display metadata and these relative references,
+while stable IDs remain unchanged. Legacy projects with empty folder fields
+continue to use their existing root-level references.
+
 For a direct import bridge, `lfp_project_add_csv_session` accepts either the
 SceneRay block format or explicit generic-CSV import settings. It never
 derives patient or visit identity from a filename.
@@ -93,3 +104,12 @@ incompatible runs. They do not perform group-level significance tests or
 silently average repeated tests. `lfp_preview_legacy_dataset` provides a
 read-only migration preview; `lfp_migrate_legacy_dataset` requires explicit
 Subject and Session IDs and never deletes the source file.
+
+Comparison selections are stored by stable Session ID. A comparison mapping may
+define a custom `group_label` per Session, with `grouping_basis` recorded as
+`custom`, `subject_group` or `visit`; this does not change the Subject's stored
+research group. Grouped PSD summaries first average repeated Sessions within a
+Subject and then average Subjects with equal weight. Grouped band-power plots
+use the same hierarchy and report SD only when at least two Subject values are
+available. Missing or out-of-range band values remain missing and are not
+replaced by zeros.

diff --git a/CHANGELOG.md b/CHANGELOG.md
@@ -2,6 +2,11 @@
 
 ## Unreleased
 
+- Added relocatable nested project storage with automatic parent/name folder creation, collision-safe source CSV copies, and stable-ID Subject/Session folder references.
+- Added expanded comparison selection metadata, custom group labels, subject-weighted grouped PSD curves and grouped band-power bars with explicit SD definitions.
+- Added an editable per-project band-definition table with validation and compatibility with legacy field-style configurations.
+- Fixed GUI project analysis band-power failure when the new struct-array band representation is passed through the compatibility entry point.
+
 - Rebuilt the MATLAB-native GUI as a zero-input project workspace launched by `launch_gui`.
 - Added a welcome state, persistent project toolbar, stable-ID Subject/Session tree, focused data/analysis/comparison pages and a compact status bar.
 - Added metadata-first Session creation, CSV preview confirmation, editable channel display metadata and non-destructive index removal.
